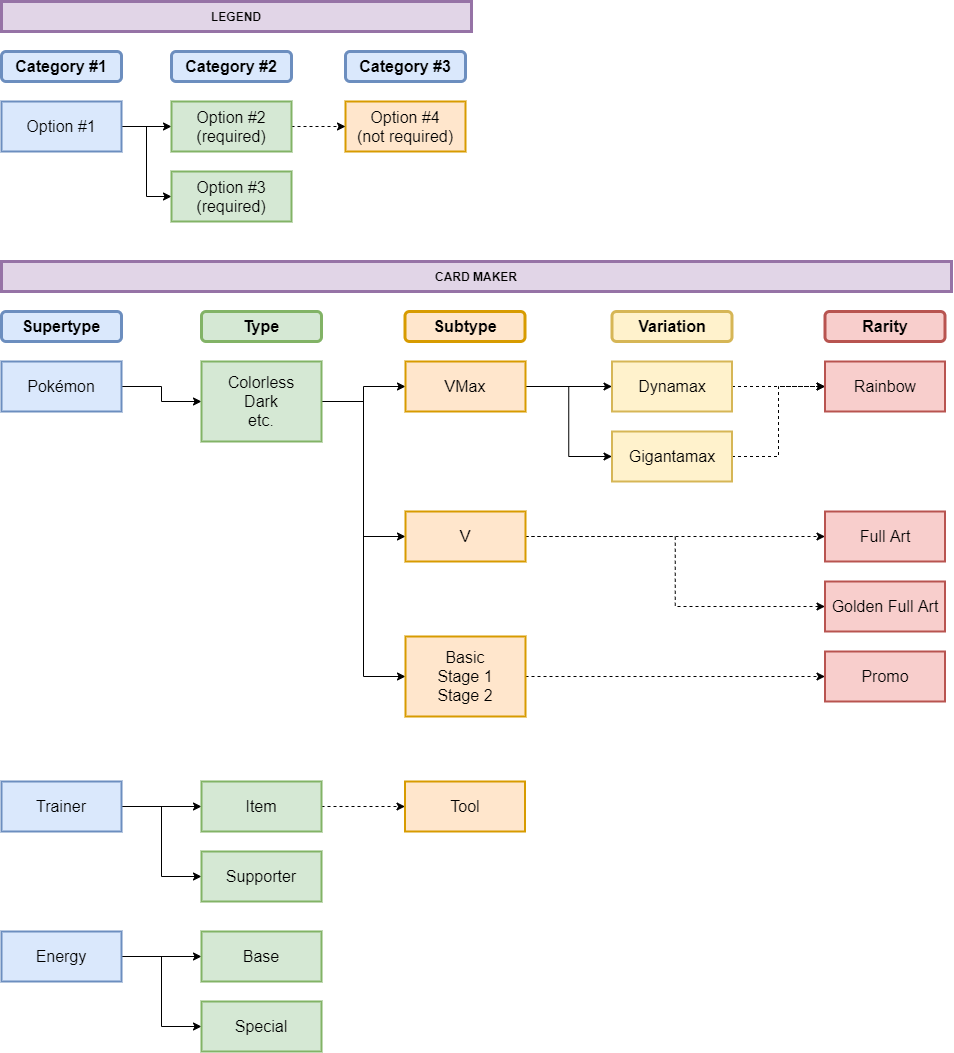
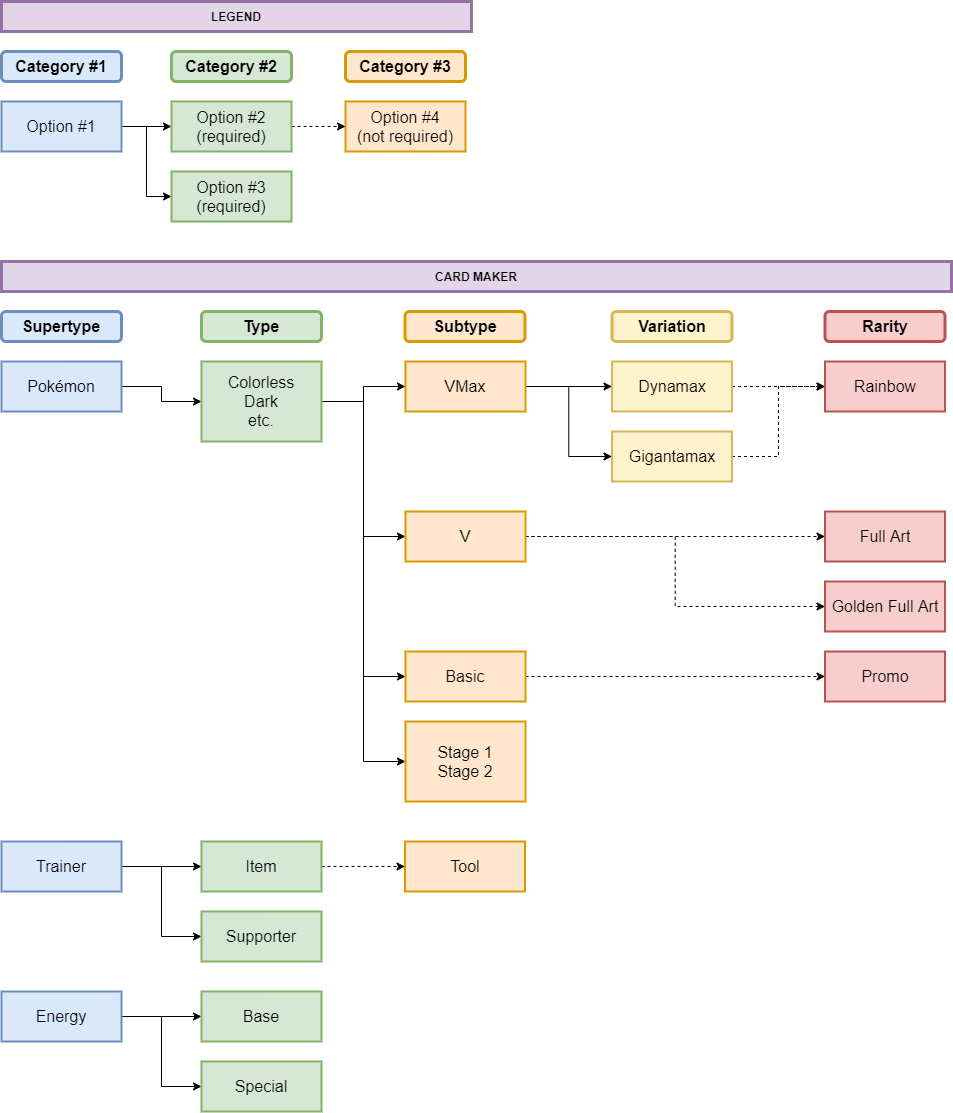
finished rarity optionality

diff --git a/src/pages/CardCreator/index.tsx b/src/pages/CardCreator/index.tsx
@@ -83,7 +83,7 @@ const CardCreatorPage: React.FC<Props> = ({ cardOptionsState, requestCardOptions
       const { selectedIndex, options } = rarityRef.current;
       const value: string | undefined = options[selectedIndex]?.value;
       const newRarity = cardOptionsState.cardOptions.rarities.filter((a: Rarity) => a.id === +value)[0];
-      if(value === 'default' || newRarity && newRarity !== subtype) {
+      if(value === 'default' || newRarity && newRarity !== rarity) {
         setRarity(newRarity);
       }
     } else {
@@ -211,9 +211,18 @@ const CardCreatorPage: React.FC<Props> = ({ cardOptionsState, requestCardOptions
             <select ref={rarityRef} id='rarity' name='rarity'
               onChange={e => setRarity(cardOptionsState.cardOptions.rarities.filter((a: Rarity) => a.id === +e.currentTarget.value)[0])}>
               <option value={'default'}>{'Default'}</option>
-              {cardOptionsState.cardOptions.rarities.map((value: Rarity, i: number) =>
-                <option value={value.id} key={i}>{value.name}</option>
-              )}
+              {cardOptionsState.cardOptions.rarities.map((value: Rarity, i: number) => {
+                const includesType: boolean = value.types.includes(type?.id || 0);
+                const includesSubtype: boolean = value.subtypes.includes(subtype?.id || 0);
+                const includesVariation: boolean = value.variations.includes(variation?.id || 0);
+                if((includesType && (includesSubtype || !subtype) && (includesVariation || !variation)
+                  || (includesSubtype && (includesVariation || !variation))
+                  || includesVariation)) {
+                  return <option value={value.id} key={i}>{value.name}</option>;
+                } else {
+                  return false;
+                }
+              })}
             </select>
           </label>
         }

diff --git a/src/App.module.scss b/src/App.module.scss
@@ -15,7 +15,7 @@
   justify-content: center;
   padding: 0 $defaultSpacing;
   background: $main;
-  height: 70px;
+  height: $headerHeight;
 
   &::before {
     content: '';
@@ -52,9 +52,10 @@
 
 .content {
   padding: $defaultSpacing;
+  height: calc(100vh - #{$headerHeight + $footerHeight});
 }
 
 .footer {
   background: $white;
-  height: 25px;
+  height: $footerHeight;
 }

diff --git a/src/interfaces.ts b/src/interfaces.ts
@@ -12,6 +12,9 @@ export interface Rarity {
   id: number,
   shortName: string,
   name: string,
+  types: number[],
+  subtypes: number[],
+  variations: number[],
 }
 
 export interface Variation {

diff --git a/src/styles/config/_variables.scss b/src/styles/config/_variables.scss
@@ -9,5 +9,7 @@ $black:     #000000;
 
 $sitePadding:    10px;
 $defaultSpacing: 20px;
+$headerHeight:   70px;
+$footerHeight:   25px;
 
 $defaultFont: 'Roboto', sans-serif;

diff --git a/src/pages/CardCreator/CardCreator.module.scss b/src/pages/CardCreator/CardCreator.module.scss
@@ -2,8 +2,10 @@
 
 .wrapper {
   width: 100%;
+  height: 100%;
   display: flex;
   justify-content: space-evenly;
+  align-items: flex-start;
 }
 
 .input {
